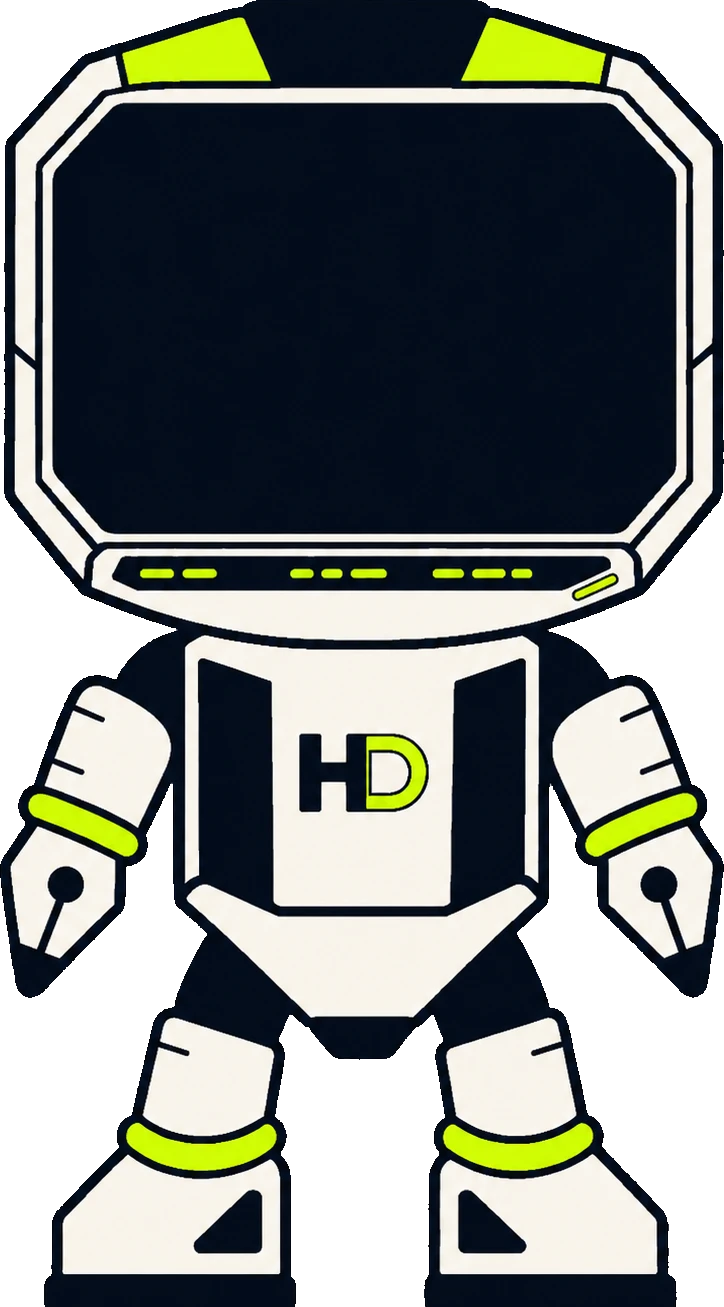
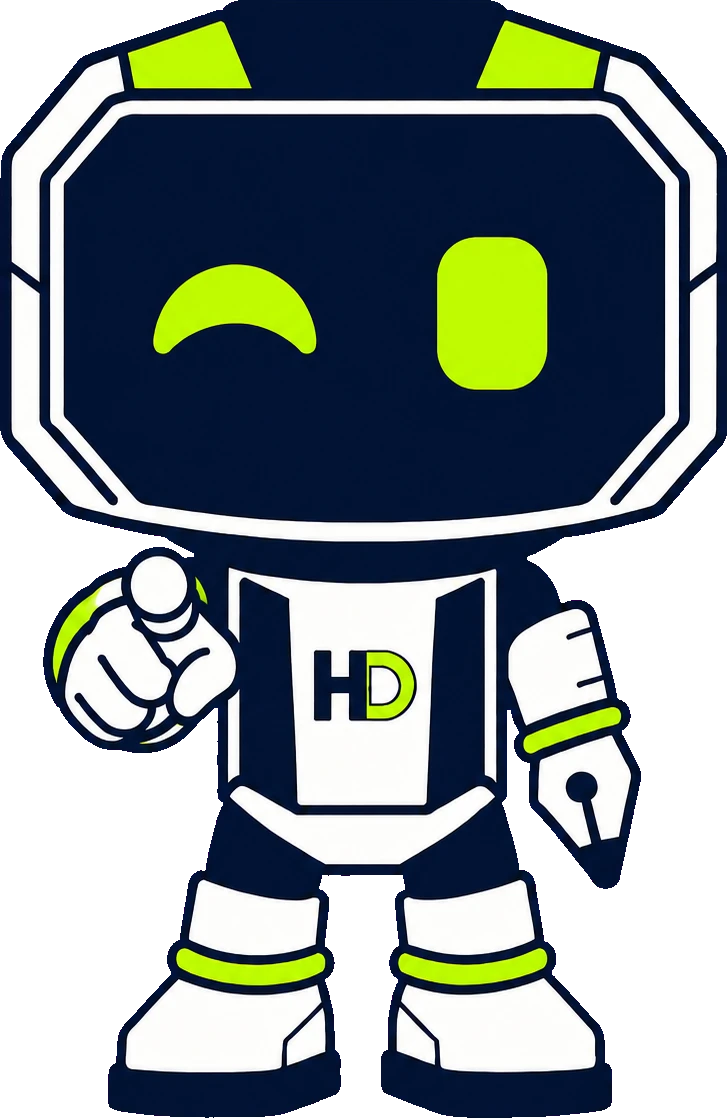
Deploy: sync site from workspace @ d18e2d1

diff --git a/es/index.html b/es/index.html
@@ -114,8 +114,8 @@
            languages share, so this needed no CSS of its own. -->
     </div>
     <figure class="hero-mascot" data-rise>
-      <img src="../assets/hago-standing.webp" width="724" height="1307" fetchpriority="high" decoding="async"
-           alt="Hago, la mascota robot de HagoDigital: una figura con cabeza de pantalla en marfil y azul marino, detalles en lima, el monograma HD en el pecho y manos de plumín.">
+      <img src="../assets/hago-standing.webp" width="727" height="1118" fetchpriority="high" decoding="async"
+           alt="Hago, la mascota robot de HagoDigital: una figura con cabeza de pantalla en marfil y azul marino, detalles en lima y el monograma HD en el pecho, señalando al frente, con el otro antebrazo terminado en un plumín.">
     </figure>
   </div>
 </section>

diff --git a/index.html b/index.html
@@ -126,8 +126,8 @@
            with the button instead of halfway up a list. -->
     </div>
     <figure class="hero-mascot" data-rise>
-      <img src="assets/hago-standing.webp" width="724" height="1307" fetchpriority="high" decoding="async"
-           alt="Hago, the HagoDigital robot mascot: a screen-headed figure in ivory and navy with lime trim, an HD monogram on its chest and pen-nib hands.">
+      <img src="assets/hago-standing.webp" width="727" height="1118" fetchpriority="high" decoding="async"
+           alt="Hago, the HagoDigital robot mascot: a screen-headed figure in ivory and navy with lime trim and an HD monogram on its chest, pointing straight ahead, the other forearm ending in a pen nib.">
     </figure>
   </div>
 </section>
